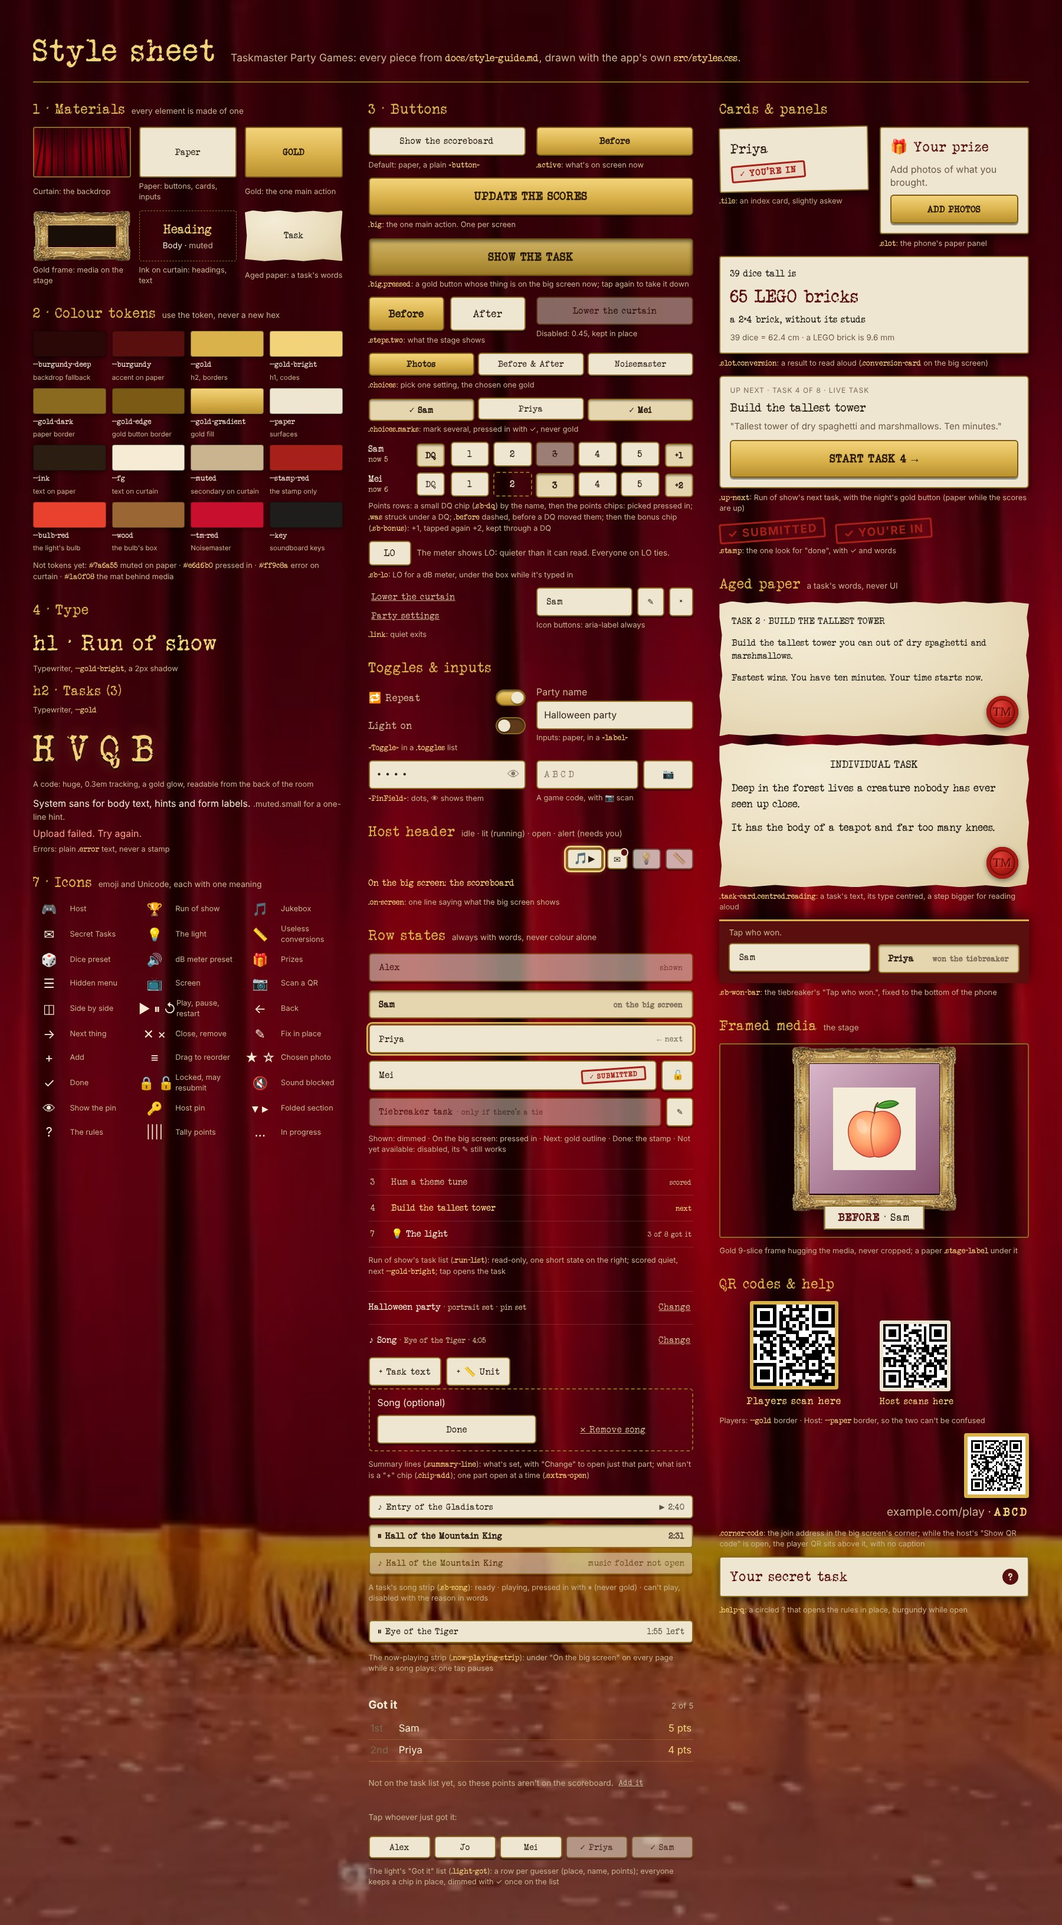
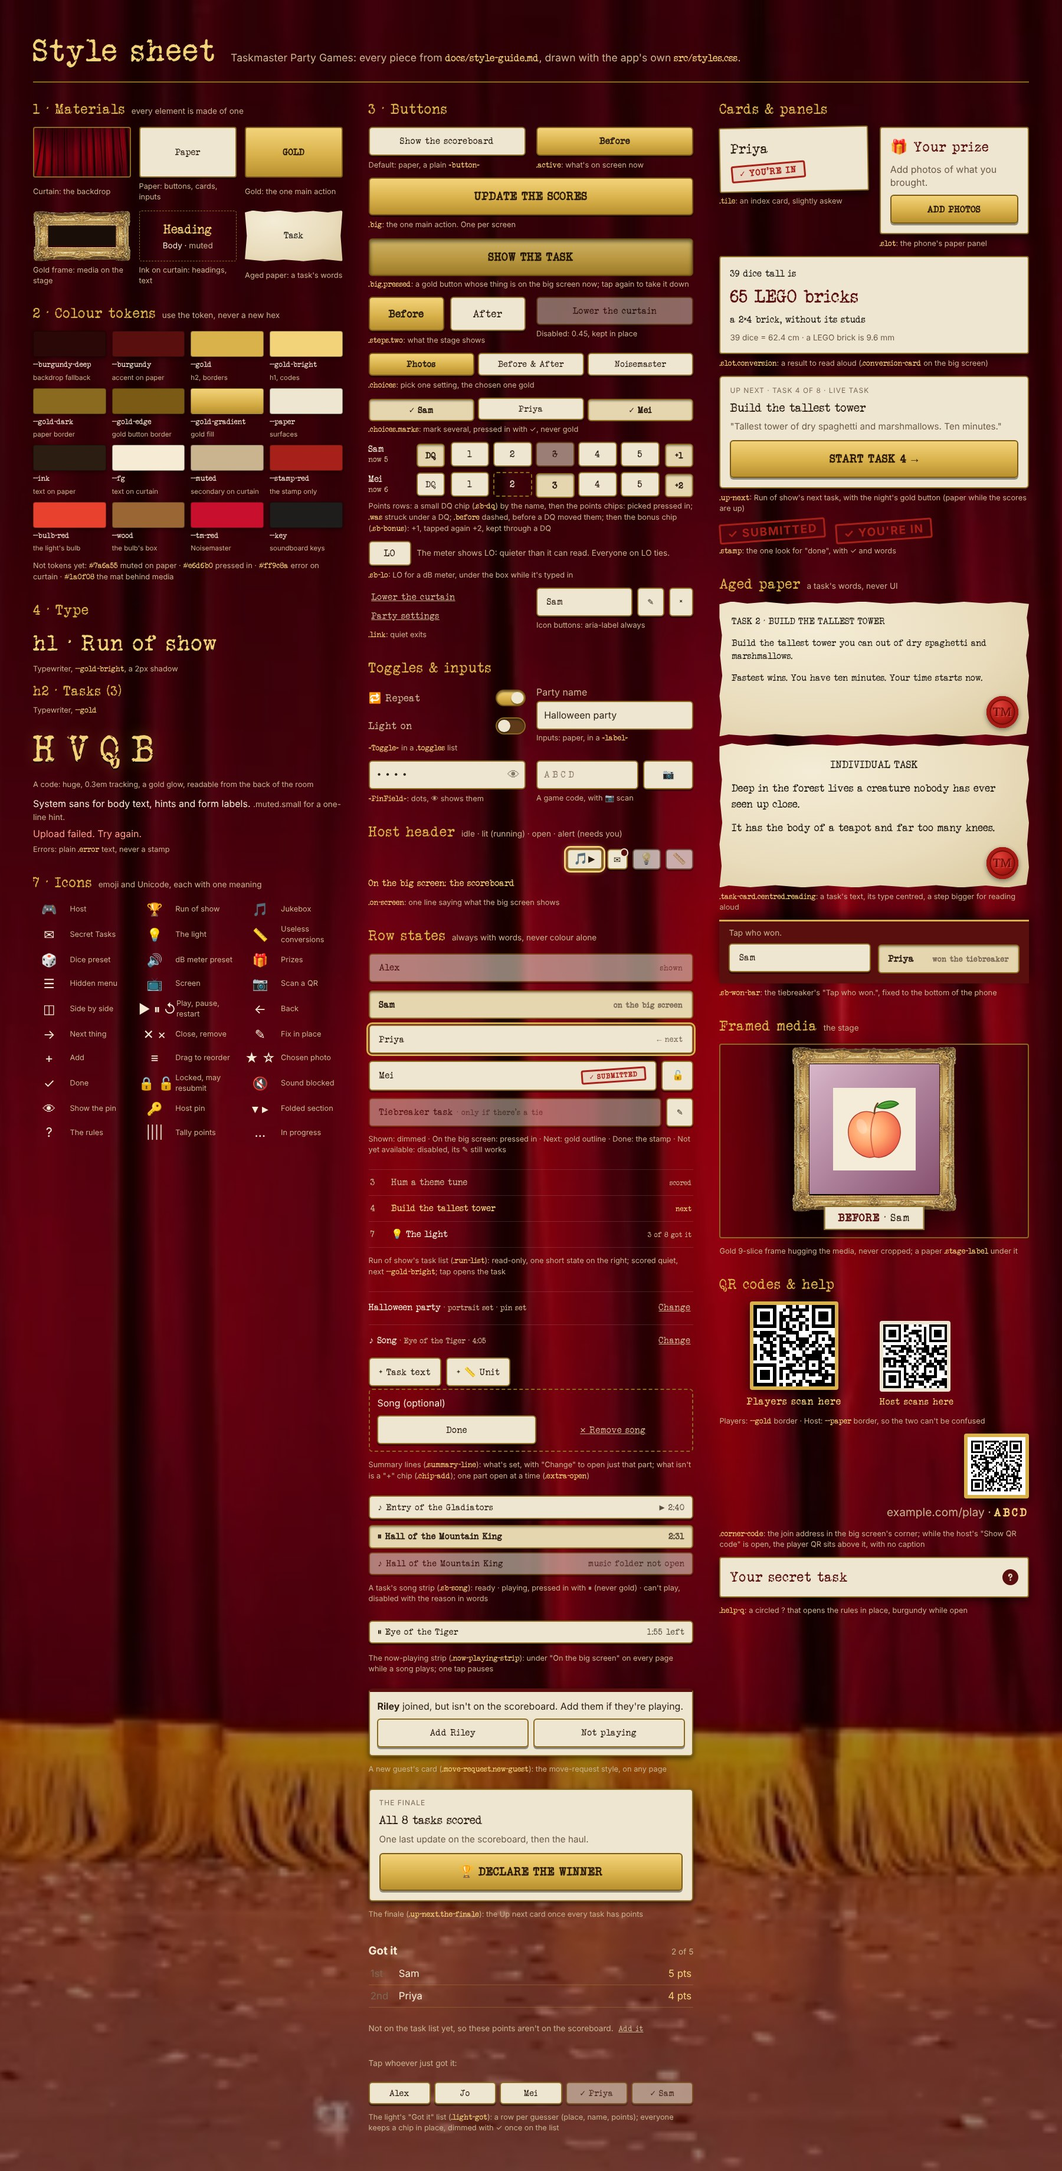
Arrivals list, new-guest card with Not playing, and the finale card
Claude-Session: https://claude.ai/code/session_01QdsARw5s8EZd7rUqThWqFB

diff --git a/src/scoreboard/RunOfShow.tsx b/src/scoreboard/RunOfShow.tsx
@@ -1,5 +1,5 @@
 import type { ReactNode } from "react";
-import { OnScreen } from "../HostRemote";
+import { JoinQr, OnScreen } from "../HostRemote";
 import { activeGame } from "../games";
 import { prizesIn, showHaul, standing } from "../games/prize/data";
 import { noBigScreen } from "../session";
@@ -35,6 +35,9 @@ export function RunOfShow({ code, session, onOpen, onTiebreak, footer }: {
   const unscored = tasks.filter(([, t]) => !scored(t)).map(([, t]) => titleOf(t));
   const final = !!board?.final;
   const adHoc = !activeTaskId(session) ? activeGame(session) : undefined;
+  // Until the first task starts (its first points, or ▶ Start) the page is about who's here.
+  const arrivals = !tasks.some(([, t]) => scored(t)) && !activeTaskId(session) && !up && !haulUp;
+  const finale = tasks.length > 0 && unscored.length === 0 && !final && !haulUp && !winner;
 
   // The scoreboard's next step takes the top slot, so there's only ever one gold button.
   const scores = haulUp ? (
@@ -75,7 +78,9 @@ export function RunOfShow({ code, session, onOpen, onTiebreak, footer }: {
       ) : up && !pending.length && (
         <p className="muted small">The prize haul comes once every task has points. Still none for {list(unscored)}. Or end the night now, below the list.</p>
       ))}
-      <UpNext code={code} session={session} quiet={!!scores} onOpen={onOpen} />
+      {arrivals && <Arrivals code={code} session={session} />}
+      {finale ? <Finale code={code} count={tasks.length} quiet={!!scores} />
+        : <UpNext code={code} session={session} quiet={!!scores} onOpen={onOpen} />}
       {!up && !haulUp && !winner && (
         <>
           <button onClick={() => void showScoreboard(code)}>Show the scoreboard</button>
@@ -86,7 +91,7 @@ export function RunOfShow({ code, session, onOpen, onTiebreak, footer }: {
       )}
       <TaskList session={session} onOpen={onOpen} />
       {/* The night can end before every task is played: one last update, then the haul. */}
-      {!final && !haulUp && tasks.some(([, t]) => scored(t)) && (
+      {!final && !haulUp && unscored.length > 0 && tasks.some(([, t]) => scored(t)) && (
         <button className="link end-night" onClick={() => { void declareWinner(code); window.scrollTo(0, 0); }}>End the night now: declare the winner</button>
       )}
       <div className="run-links">
@@ -94,6 +99,7 @@ export function RunOfShow({ code, session, onOpen, onTiebreak, footer }: {
         <button className="link" onClick={() => onOpen("adhoc")}>
           {adHoc ? `Back to ${adHoc.name} (not on the list)` : "Play a game that's not on the list"}
         </button>
+        {!arrivals && <JoinQr code={code} session={session} />}
         {footer}
       </div>
     </div>
@@ -164,6 +170,45 @@ function TaskList({ session, onOpen }: { session: Session; onOpen: (id: string) 
           );
         })}
       </ul>
+    </section>
+  );
+}
+
+/**
+ * Before the first task: who's here, in guest-list order, read-only (changing the list is on Plan the party). "Show QR code"
+ * is paper, since this is when people join.
+ */
+function Arrivals({ code, session }: { code: string; session: Session }) {
+  const board = session.scoreboard;
+  const contestants = Object.entries(board?.contestants ?? {}).sort(([, a], [, b]) => a.order - b.order);
+  if (!contestants.length) return null;
+  const here = (uid?: string) => !!uid && !!session.players?.[uid];
+  const count = contestants.filter(([, c]) => here(c.uid)).length;
+  return (
+    <section className="arrivals">
+      <h3>Here so far · {count} of {contestants.length}</h3>
+      <ul className="arrivals-list">
+        {contestants.map(([id, c]) => (
+          <li key={id} className={here(c.uid) ? undefined : "away"}>
+            <span className="face" aria-hidden>{c.photo ? <img src={c.photo} alt="" /> : null}</span>
+            <span className="name">{c.name}</span>
+            <span className="muted small">{!here(c.uid) ? "not yet" : c.photo ? "checked in" : "checked in · no headshot yet"}</span>
+          </li>
+        ))}
+      </ul>
+      <JoinQr code={code} session={session} button />
+    </section>
+  );
+}
+
+/** Once every task has points, the "Up next" card becomes the night's last gold button. */
+function Finale({ code, count, quiet }: { code: string; count: number; quiet: boolean }) {
+  return (
+    <section className="up-next the-finale">
+      <p className="up-next-label">The finale</p>
+      <h3>All {count} tasks scored</h3>
+      <p className="up-next-note">One last update on the scoreboard, then the haul.</p>
+      <button className={quiet ? undefined : "big"} onClick={() => { void declareWinner(code); window.scrollTo(0, 0); }}>🏆 Declare the winner</button>
     </section>
   );
 }

diff --git a/src/HostPage.tsx b/src/HostPage.tsx
@@ -15,6 +15,7 @@ import { activeTaskId } from "./scoreboard/tasks";
 import { REMOTE_KEY, RecentList, loadRecent, saveRecent, withRecent, withoutRecent } from "./recent";
 import { PinStep } from "./HostPin";
 import { JoinError, PinNeededError, allowMove, claimController, claimWithPin, createParty, declineMove, extractCode, releaseController, setShowDownload, store, useSession, useUid } from "./session";
+import { addPlayerToScoreboard, setNotPlaying } from "./scoreboard/data";
 import { Toggle } from "./Toggle";
 import type { Session } from "./types";
 
@@ -120,7 +121,6 @@ export function HostPage() {
           <RunOfShow code={code} session={session} onOpen={open} onTiebreak={() => open("tiebreaker")}
             footer={<>
               <button className="link" onClick={() => go({ view: "plan" })}>Plan the party</button>
-              <JoinQr code={code} session={session} />
               {settings}
             </>} />
         )}
@@ -152,9 +152,24 @@ function Dealer({ code, session }: { code: string; session: Session }) {
  * sound: the guest will usually be standing next to the host asking anyway.
  */
 function MoveRequests({ code, session }: { code: string; session: Session }) {
+  const board = session.scoreboard;
+  const listed = new Set(Object.values(board?.contestants ?? {}).map((c) => c.uid).filter(Boolean));
+  // A guest who joined but isn't on the scoreboard comes to the host as a card, on whatever page they're on.
+  const newcomers = Object.entries(session.players ?? {})
+    .filter(([uid, p]) => !listed.has(uid) && !p.notPlaying)
+    .sort(([, a], [, b]) => a.joinedAt - b.joinedAt);
   const asks = Object.entries(session.moves ?? {}).filter(([, m]) => m.status === "asked" && session.players?.[m.from]);
   return (
     <>
+      {newcomers.map(([uid, p]) => (
+        <section key={uid} className="move-request new-guest">
+          <p><strong>{p.name}</strong> joined, but isn't on the scoreboard. Add them if they're playing.</p>
+          <div className="row">
+            <button onClick={() => void addPlayerToScoreboard(code, board, uid, p.name)}>Add {p.name}</button>
+            <button onClick={() => void setNotPlaying(code, uid)}>Not playing</button>
+          </div>
+        </section>
+      ))}
       {asks.map(([to, m]) => {
         const name = session.players![m.from]!.name;
         return (

diff --git a/docs/style-sheet/sheet.tsx b/docs/style-sheet/sheet.tsx
@@ -168,6 +168,14 @@ function Sheet() {
             </div>
             <Cap>The now-playing strip (<code>.now-playing-strip</code>): under "On the big screen" on every page while a song plays; one tap pauses</Cap>
             <div className="mini-phone" style={{ width: "100%", marginTop: 12 }}>
+              <section className="move-request new-guest"><p><strong>Riley</strong> joined, but isn't on the scoreboard. Add them if they're playing.</p><div className="row"><button>Add Riley</button><button>Not playing</button></div></section>
+            </div>
+            <Cap>A new guest's card (<code>.move-request.new-guest</code>): the move-request style, on any page</Cap>
+            <div className="mini-phone" style={{ width: "100%", marginTop: 12 }}>
+              <section className="up-next the-finale"><p className="up-next-label">The finale</p><h3>All 8 tasks scored</h3><p className="up-next-note">One last update on the scoreboard, then the haul.</p><button className="big">🏆 Declare the winner</button></section>
+            </div>
+            <Cap>The finale (<code>.up-next.the-finale</code>): the Up next card once every task has points</Cap>
+            <div className="mini-phone" style={{ width: "100%", marginTop: 12 }}>
               <GotIt code="HVQB" session={{ hostUid: "", light: { got: { sam: 1, priya: 2 } }, scoreboard: { contestants: Object.fromEntries(
                 ["Sam", "Priya", "Mei", "Alex", "Jo"].map((name, order) => [name.toLowerCase(), { name, order }])) } }} />
             </div>

diff --git a/src/styles.css b/src/styles.css
@@ -1300,3 +1300,13 @@ button.big.pressed { transform: translateY(2px); box-shadow: inset 0 3px 6px #00
 .read-out { display: grid; gap: 0.5rem; }
 .read-out h3 { margin: 0; }
 .read-out .conversion { text-align: center; }
+
+/* Run of show before the first task: who's here */
+.arrivals { display: grid; gap: 0.5rem; }
+.arrivals h3 { margin: 0; }
+.arrivals-list { list-style: none; margin: 0; padding: 0; display: grid; gap: 0.35rem; }
+.arrivals-list li { display: flex; align-items: center; gap: 0.6rem; }
+.arrivals-list li.away { opacity: 0.55; }
+.arrivals-list .face { flex: none; width: 2rem; height: 2rem; border-radius: 4px; background: #0004; border: 1px solid var(--gold-dark); overflow: hidden; }
+.arrivals-list .face img { width: 100%; height: 100%; object-fit: cover; }
+.arrivals-list .name { flex: 1; font-family: var(--typewriter); }

diff --git a/src/scoreboard/Planning.tsx b/src/scoreboard/Planning.tsx
@@ -188,7 +188,7 @@ function Contestants({ code, session, board, contestants }: {
           <ul className="sb-contestant-list">
             {loose.map(([uid, p]) => (
               <li key={uid}>
-                <span className="sb-contestant-name sb-loose">{p.name}<span className="muted small">checked in</span></span>
+                <span className="sb-contestant-name sb-loose">{p.name}<span className="muted small">{p.notPlaying ? "not playing" : "checked in"}</span></span>
                 <button className="sb-start" onClick={() => void addPlayerToScoreboard(code, board, uid, p.name)}>+ Add</button>
               </li>
             ))}

diff --git a/src/scoreboard/data.ts b/src/scoreboard/data.ts
@@ -39,6 +39,10 @@ export async function addPlayerToScoreboard(code: string, board: Scoreboard | un
   });
 }
 
+/** "Not playing": the host dismisses a guest's "add them?" card. They stay in "Here, but not on the scoreboard". */
+export const setNotPlaying = (code: string, uid: string, on = true) =>
+  update(ref(db(), `sessions/${code}`), { [`players/${uid}/notPlaying`]: on ? true : null });
+
 export const renameContestant = (code: string, id: string, name: string) => set(at(code, `contestants/${id}/name`), name.trim());
 
 /** Takes them off the scoreboard, with every point they were given. */

diff --git a/src/types.ts b/src/types.ts
@@ -33,6 +33,8 @@ export interface Player {
   joinedAt: number;
   /** The scoreboard contestant they checked in as, if the party had a guest list. */
   contestant?: string;
+  /** The host said this guest isn't playing: no "add them?" card, and they stay listed behind Plan the party. */
+  notPlaying?: boolean;
 }
 
 /** Download URLs of a player's Before & After submission. RTDB drops empty objects, so all optional. */

diff --git a/docs/redesign-decisions.md b/docs/redesign-decisions.md
@@ -413,6 +413,9 @@ A review of the whole host remote, because it had got crowded: one page did both
 | Adding contestants | "Add contestants, one per line": paste a list, Add. | One name per Add: slow for a whole guest list. |
 | A task's ✎ page | Its own page, "← Plan the party", not a form opened inside the list. Always there: the name, the note and (live tasks) Scoring. Everything optional is one summary line once set ("Task text · LIVE TASK · Build the tallest…", "♪ Song · Eye of the Tiger · 4:05", "📏 Measured in · cm · one is 1 cm"), each with Change that opens just that part in place, one at a time, with Done and "✕ Remove …"; not yet set, it's a "+" chip ("+ Task text", which includes its type, "+ Song", "+ 📏 Unit"). Gold Save, quiet Cancel, "Remove this task". Replaces the ✎ form in "Task list". | Saving as you go, as points do: Cancel is the undo for a slip. Tabs in the form: we removed tabs on purpose, and a tab hides whether something is set. A step-by-step wizard for a new task: most tasks are a name and a note. Tying the unit to Highest or Lowest wins: a measured task can have no unit. |
 | The tiebreaker and Declare rows | "Declare the winner" leaves the task list. While you're at Run of show, a quiet "End the night now: declare the winner" sits under the task list (the finale card comes with the arrivals and finale commit). The tiebreaker's ✎ opens the same page, without Scoring, unit or Remove. | Keeping Declare as a task row as well: two doors, one of them buried. |
+| Arrivals | Until the first task starts (its first points, or ▶ Start), Run of show opens on "Here so far · 3 of 5": a read-only list in guest-list order with the headshot, the name and "checked in", "not yet" (dimmed) or "checked in · no headshot yet", then a paper "Show QR code", then the Up next card with the night's gold button. After the first task the list is behind Plan the party and the QR link is at the bottom. | The list under the Up next card: it's the main thing to watch, and the gold would sit above it. ✕ and ✎ on the arrivals list: a slip waiting to happen. |
+| A guest who isn't on the list | A card at the top of any page: "Riley joined, but isn't on the scoreboard. Add them if they're playing." with "Add Riley" and "Not playing". "Not playing" sets a flag on the guest (`players/<uid>/notPlaying`, covered by the existing player rule), drops the card, and keeps them listed behind Plan the party as "not playing". | Leaving them in "Here, but not on the scoreboard" all night with no card. |
+| The finale | Once every task has points, the Up next card becomes "The finale · All 8 tasks scored" with gold "🏆 Declare the winner"; the existing flow follows (the last update, then the haul or the tiebreaker). While tasks remain, the quiet "End the night now: declare the winner" link stays under the list. | Declare as a row in the task list. |
 | The header and side pages | Four icons, right-aligned: 🎵 ✉ 💡 📏, with the lit and alert states unchanged. No 🏆 and no "🎮 Host" label: the party name and code sit under the "Run of show" title in small muted type. A side page opens with one "← Back" to where the host was, then the "On the big screen" line, so the status line opens every page. | Keeping 🏆: Run of show is where "← Run of show" and Done already lead. Naming the page you came from in the Back label: the longer label crowded the top. |
 | Music while you work | While a song plays, a pressed-in strip under the status line on every page: "⏸ Eye of the Tiger · 1:55 left", one tap pauses. Playing is pressed in everywhere (song strips, the jukebox's Pause and current track), never gold, so the gold stays on the next thing to do. The time left comes from a new `jukebox/clock` the big screen writes on play, pause and seek (a database rules change). | Showing the whole player on every page: too much. Gold for playing: it competed with the next action. |
 | Reading out a measurement | Under a measured task's points, a quiet "📏 Read it out": contestant chips (the last number typed is picked), the conversion card with "Surprise me again", and a paper "Show on the big screen" that is pressed in while up. Picking someone else while it's up swaps the big screen. 📏 in the header still opens the free-form converter. | Sending the host to 📏 and retyping the number: the number is already on the page. |

diff --git a/docs/style-guide.md b/docs/style-guide.md
@@ -182,6 +182,9 @@ See: [checkin-phone-list.jpg](screens/checkin-phone-list.jpg), [checkin-phone-co
 ### Host remote (`/host`)
 - Same phone column, but it's a **control panel**: every control keeps its position on every view. Disable controls that don't apply; don't remove them (see the comment in `HostRemote.tsx`).
 - **Header** (`HostPage.tsx`): four icon buttons, right-aligned, in this order: 🎵 the jukebox (shows ▶ and glows while a song plays), ✉ Secret Tasks, 💡 the light (glows while it's on), 📏 Useless conversions (glows while a conversion is on the big screen). The open one has a `--gold-bright` outline. Idle icons are faded and greyed (`.head-icon`); `.lit` is the gold glow, meaning "running"; `.alert` is a small burgundy dot, meaning "needs the host". Never use the glow for "needs you". There is no 🏆 and no "Host" label: Run of show is home, and its title carries the party name and code in small muted type. 🎵 ✉ 💡 📏 open in place of the page with one "← Back" to where the host was, then the "On the big screen" line. A new all-evening feature gets a header icon, not another section on a page.
+- **Arrivals** (`Arrivals` in `RunOfShow.tsx`): before the first task, "Here so far · 3 of 5" and a read-only list (`.arrivals-list`: a 2rem headshot square, the name in typewriter, and a muted "checked in", "not yet" or "checked in · no headshot yet"; guests who haven't come are dimmed), then a paper "Show QR code".
+- **New guest card** (`.move-request.new-guest`, in `HostPage.tsx`): the move-request card style, at the top of any page: the guest's name in bold, "joined, but isn't on the scoreboard. Add them if they're playing.", and two paper buttons, "Add Riley" and "Not playing".
+- **The finale** (`.up-next.the-finale`): the Up next card once every task has points: "THE FINALE", "All 8 tasks scored", one line on what follows, and the night's gold "🏆 Declare the winner".
 - **Now-playing strip** (`.sb-song.now-playing-strip`, in `OnScreen`): while a song plays, under the "On the big screen" line of every page: "⏸ Title" and "1:55 left", pressed in. One tap pauses it. It never goes gold.
 - **Read it out** (`ReadOut.tsx`): a quiet "📏 Read it out" under a measured task's points. It opens contestant chips (whoever's number was typed last is picked), the useless-conversion card with "Surprise me again", and a paper "Show on the big screen" that is pressed in ("On the big screen · Jordan") while it's up. Picking another contestant while it's up swaps the big screen to theirs.
 - **Home is the run of show** (🏆, `RunOfShow.tsx`). Every party opens on it, and it's for running the night, not building it. Top to bottom:

diff --git a/docs/screens/README.md b/docs/screens/README.md
@@ -137,6 +137,11 @@ Scoreboard (taken on 2026-10-12, from the real components with made-up sessions;
 | `run-of-show-host-haul-up.jpg` | The haul on the big screen: gold "Lower the curtain", "Back to the scoreboard" as a link (2026-10-18) |
 | `run-of-show-host-haul-waiting.jpg` | The scoreboard up with a task still without points: "The prize haul comes once every task has points. Still none for Prize task." under gold "Lower the curtain", and the "Up next" card's button paper (2026-10-18) |
 | `main-prize-haul-winner-only.jpg` | The prize haul when no prize has photos: "Prize Haul" and the winner's headshot alone, "Priya is the winner!" |
+| `run-of-show-host-arrivals.jpg` | Run of show before the first task: "Here so far · 3 of 5" in guest-list order with headshots and "checked in" or "not yet" (dimmed), paper "Show QR code", then the Up next card with gold "▶ Start Headshot" (2026-10-18) |
+| `host-new-guest.jpg` | A guest who isn't on the scoreboard comes as a card at the top of the page: "Riley joined, but isn't on the scoreboard. Add them if they're playing." with "Add Riley" and "Not playing" (2026-10-18) |
+| `host-new-guest-late.jpg` | The same card on a task page, mid-show: it appears on whatever page the host is on (2026-10-18) |
+| `scoreboard-host-not-playing.jpg` | Plan the party after "Not playing": Riley stays under "Here, but not on the scoreboard" marked "not playing", with "+ Add" if they change their mind (2026-10-18) |
+| `run-of-show-host-finale.jpg` | Every task has points: the Up next card becomes "The finale · All 8 tasks scored" with gold "🏆 Declare the winner", the quiet end-night link gone (2026-10-18) |
 | `run-of-show-host-declare.jpg` | Run of show mid-party with tasks unscored: a quiet "End the night now: declare the winner" under the task list (2026-10-18) |
 | `run-of-show-host-declare-update.jpg` | After "Declare the winner": the scoreboard is up, gold "Update the scores" for one last update (the status line names the task it adds), and "Declaring the winner with Prize task unscored. Not yet" (2026-10-18) |
 | `run-of-show-host-declare-haul.jpg` | After that last update: gold "🎁 Show the prize haul · Priya", the winner decided on the points so far (2026-10-18) |
